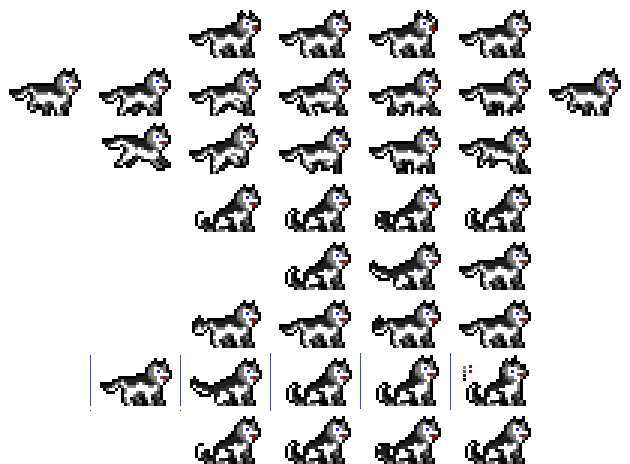
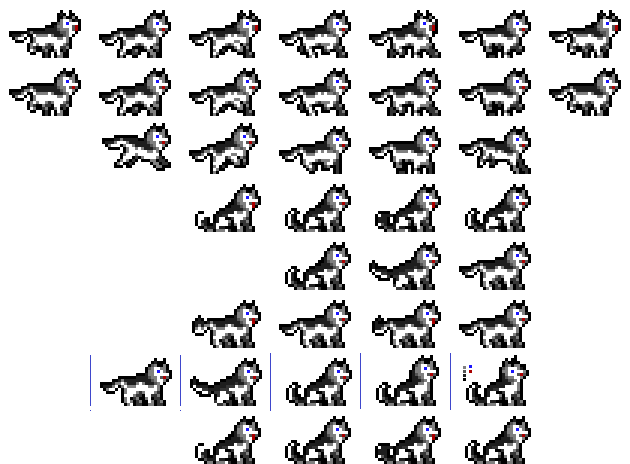
tried fire attack for dog

diff --git a/huskydog.js b/huskydog.js
@@ -137,11 +137,11 @@ class GiantHuskydog {
         this.pos = new Vector2(x, y);
         this.vel = new Vector2(0, 0);
         this.acc = new Vector2(0, 0);
-        this.speed = 0.5;
-        this.drag = -0.33 / (this.speed); // dont question
+        this.speed = 1;
+        this.drag = -1 / (this.speed); // dont question
 
         // actual sprite dimension for loading animations
-        this.width  = 90;
+        this.width = 90;
         this.height = 58;
         this.animations = [];
         this.loadAnimations();
@@ -165,13 +165,22 @@ class GiantHuskydog {
         this.isDashing = false;
 
         // roar
-        this.isRoaring = false;
+        this.barkTimer = 0;
+        this.barkInterval = 5;  // Bark every 5 seconds
+        this.barkDuration = 5;
+        this.isBarking = false;
+        this.fireTimer = 0;
+        this.fireInterval = 0.5;
     };
 
     loadAnimations() {
         this.animations.push(new Animator(ASSET_MANAGER.getAsset("./assets/enemy/huskydog.png"), this.width * 6, this.height, this.width, this.height, 6, 0.1, 0, false, true));
+        // bark
+        this.animations.push(new Animator(ASSET_MANAGER.getAsset("./assets/enemy/huskydog.png"), this.width * 6, 0, this.width, this.height, 6, 0.2, 0, false, true));
         //reversed images
         this.animations.push(new Animator(ASSET_MANAGER.getAsset("./assets/enemy/huskydog1.png"), 0, this.height, this.width, this.height, 6, 0.1, 0, false, false));
+        // bark
+        this.animations.push(new Animator(ASSET_MANAGER.getAsset("./assets/enemy/huskydog1.png"), 0, 0, this.width, this.height, 6, 0.2, 0, false, false));
     }
 
     handleCollision(entity, scalarForce) {
@@ -220,25 +229,66 @@ class GiantHuskydog {
             }
         });
 
-        // this.dashTimer += this.game.clockTick;
-        if (this.dashTimer >= this.dashInterval) {
-            // Start dashing towards Mickey
-            this.isDashing = true;
-            this.dashTimer = 0;  // Reset the timer
+        // attack events
+        this.barkTimer += this.game.clockTick;
+
+        if (!this.isBarking && this.barkTimer >= this.barkInterval) {
+            // Start barking towards Mickey
+            this.isBarking = true;
+            this.barkTimer = 0;  // Reset the timer
+            this.fireTimer = 0;
+            this.speed = 0.57;
+            this.drag = -1 / (this.speed);
         }
-
-        // Dash towards Mickey if it's currently dashing
-        if (this.isDashing) {
-            let dashForce = toMickey.mul(2);  // You can adjust the force multiplier as needed
-            this.applyForce(dashForce);
-
-            // You can also add logic to control the duration of the dash if needed
-
+        else if (this.isBarking) {
+            this.fireTimer += this.game.clockTick;
             // Reset the dash flag after a certain duration (e.g., 0.5 seconds)
-            if (this.dashTimer >= 0.5) {
-                this.isDashing = false;
+            if (this.fireTimer >= this.fireInterval) {
+                this.fireTimer = 0;
+                this.game.addAttackEntity(new FireBall(
+                    this.game, this.mickey, false, this.BB.center().x, this.BB.center().y,
+                    0, 2, 4, 1,            // attributes (dmg, spd, duration, pierce)
+                    this.mickey.BB.center() // destination vector (x, y)
+                ));
+                this.game.addAttackEntity(new FireBall(
+                    this.game, this.mickey, false, this.BB.center().x, this.BB.center().y,
+                    0, 2, 4, 1,
+                    this.mickey.BB.center().rotate(degreeToRad(10))
+                ));
+                this.game.addAttackEntity(new FireBall(
+                    this.game, this.mickey, false, this.BB.center().x, this.BB.center().y,
+                    0, 2, 4, 1,
+                    this.mickey.BB.center().rotate(degreeToRad(-10))
+                ));
+            }
+
+            if (this.barkTimer >= this.barkDuration) {
+                this.speed = 1;
+                this.drag = -1 / (this.speed);
+                this.isBarking = false;
+                this.barkTimer = 0;  // Reset the timer
             }
         }
+
+        // this.dashTimer += this.game.clockTick;
+        // if (this.dashTimer >= this.dashInterval) {
+        //     // Start dashing towards Mickey
+        //     this.isDashing = true;
+        //     this.dashTimer = 0;  // Reset the timer
+        // }
+
+        // // Dash towards Mickey if it's currently dashing
+        // if (this.isDashing) {
+        //     let dashForce = toMickey.mul(2);  // You can adjust the force multiplier as needed
+        //     this.applyForce(dashForce);
+
+        //     // You can also add logic to control the duration of the dash if needed
+
+        //     // Reset the dash flag after a certain duration (e.g., 0.5 seconds)
+        //     if (this.dashTimer >= 0.5) {
+        //         this.isDashing = false;
+        //     }
+        // }
 
         if (this.pos.x - this.mickey.x + 10 > 0) {
             this.flip = 1; // Flip the sprite if moving left
@@ -277,10 +327,18 @@ class GiantHuskydog {
 
     draw(ctx) {
         if (this.flip == 0) {
-            this.animations[0].drawFrame(this.game.clockTick, ctx, this.pos.x, this.pos.y, this.width,this.height);
+            if (this.isBarking) {
+                this.animations[1].drawFrame(this.game.clockTick, ctx, this.pos.x, this.pos.y, this.width, this.height);
+            } else {
+                this.animations[0].drawFrame(this.game.clockTick, ctx, this.pos.x, this.pos.y, this.width, this.height);
+            }
         }
         else if (this.flip == 1) {
-            this.animations[1].drawFrame(this.game.clockTick, ctx, this.pos.x, this.pos.y, this.width,this.height);
+            if (this.isBarking) {
+                this.animations[3].drawFrame(this.game.clockTick, ctx, this.pos.x, this.pos.y, this.width, this.height);
+            } else {
+                this.animations[2].drawFrame(this.game.clockTick, ctx, this.pos.x, this.pos.y, this.width, this.height);
+            }
         }
         if (PARAMS.DEBUG) {
             // draws bounding box

diff --git a/index.html b/index.html
@@ -21,7 +21,7 @@
     <script type="text/javascript" src="./bird.js"></script>
     <script type="text/javascript" src="./huskydog.js"></script>
     <script type="text/javascript" src="./skeleton.js"></script>
-    <script type="text/javascript" src="./SkeletonMage.js"></script>
+    <script type="text/javascript" src="./skeletonmage.js"></script>
     <script type="text/javascript" src="./mickey.js"></script>
     <script type="text/javascript" src="./characterAttacks.js"></script>
     <script type="text/javascript" src="./main.js"></script>

diff --git a/scenemanager.js b/scenemanager.js
@@ -124,7 +124,7 @@ class SceneManager {
             
             // this.game.addEntity(new FireBall(this.game, this.skeletonMage, this.mickey));
             this.game.addEntity(new GiantHuskydog(this.game, this.mickey, 0, 500));
-            this.game.addEntity(new Huskydog(this.game, this.mickey, 0, 0));
+            // this.game.addEntity(new Huskydog(this.game, this.mickey, 0, 0));
 
             this.game.addEntity(this.mickey);
             this.game.pausable = true;
